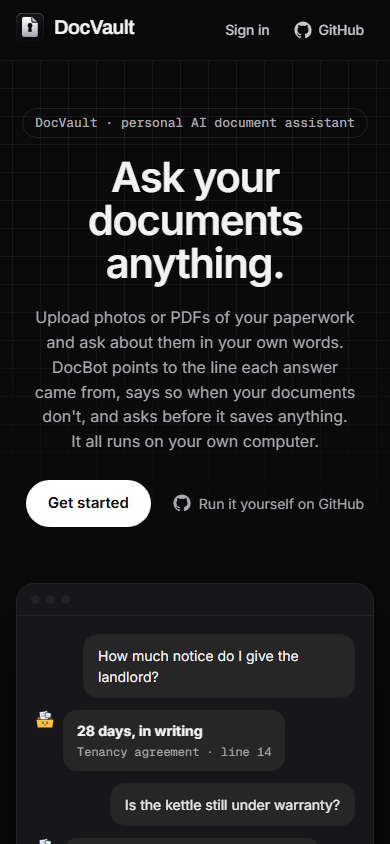
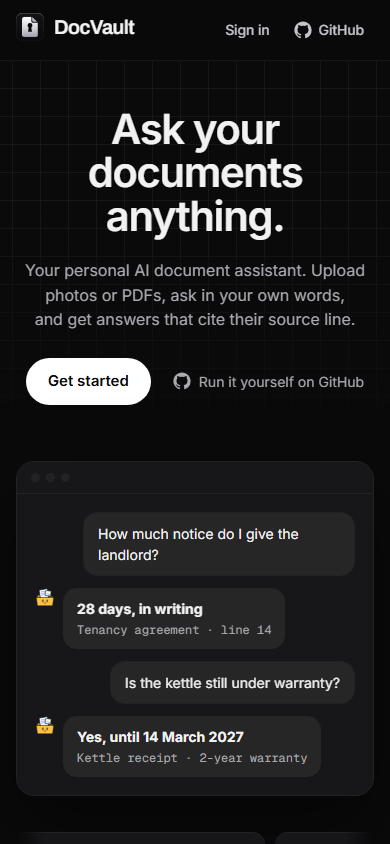
Drop the hero eyebrow and shorten the lead to two lines

diff --git a/frontend/src/components/landing/FloatingTiles.tsx b/frontend/src/components/landing/FloatingTiles.tsx
@@ -4,7 +4,8 @@ import { DocBotMark } from '@/components/DocBotMark'
 import { useReducedMotion } from '@/lib/useReducedMotion'
 
 /**
- * Three mirrored pairs, laid out as on t3.codes: x from the hero's centre, y from its top, s the tile size.
+ * Three mirrored pairs, laid out as on t3.codes: x from the hero's centre, y from its top, s the tile size. The lower
+ * pair sits at 350 px (t3: 440 px) so it stays beside the buttons of this shorter hero.
  * depth scales how far a tile follows the cursor; fx/fy is where it flies in from; d its entrance delay.
  */
 type Tile = { name: string; icon?: LucideIcon; color?: string; x: string; y: string; s: number; rot: number; depth: number; d: number; fx: number; fy: number }
@@ -13,8 +14,8 @@ const tiles: Tile[] = [
   { name: 'shopping', icon: ShoppingBag, color: '#F472B6', x: 'min(300px, 19vw)', y: '20px', s: 64, rot: -5, depth: 0.6, d: 0.58, fx: 40, fy: -80 },
   { name: 'receipt', icon: Receipt, color: '#8FD19B', x: 'max(-560px, -38vw)', y: '128px', s: 96, rot: -8, depth: 1.2, d: 0.38, fx: -160, fy: -40 },
   { name: 'manual', icon: BookOpen, color: '#F0A55B', x: 'min(560px, 38vw)', y: '128px', s: 96, rot: 7, depth: 1.2, d: 0.46, fx: 160, fy: -40 },
-  { name: 'file', icon: FileText, color: '#7AA7FF', x: 'max(-440px, -30vw)', y: '440px', s: 80, rot: 4, depth: 0.9, d: 0.54, fx: -120, fy: 80 },
-  { name: 'warranty', icon: ShieldCheck, color: '#5EEAD4', x: 'min(440px, 30vw)', y: '440px', s: 80, rot: -5, depth: 0.9, d: 0.7, fx: 120, fy: 80 },
+  { name: 'file', icon: FileText, color: '#7AA7FF', x: 'max(-440px, -30vw)', y: '350px', s: 80, rot: 4, depth: 0.9, d: 0.54, fx: -120, fy: 80 },
+  { name: 'warranty', icon: ShieldCheck, color: '#5EEAD4', x: 'min(440px, 30vw)', y: '350px', s: 80, rot: -5, depth: 0.9, d: 0.7, fx: 120, fy: 80 },
 ]
 
 /** Furthest the tiles shift, in pixels, when the cursor reaches an edge of the hero. */

diff --git a/frontend/src/pages/Landing.test.tsx b/frontend/src/pages/Landing.test.tsx
@@ -41,11 +41,9 @@ it('has one headline, the lead, and no form fields', () => {
   expect(screen.getAllByRole('heading', { level: 1 })).toHaveLength(1)
   const h1 = screen.getByRole('heading', { level: 1 })
   expect(h1).toHaveTextContent('Ask your documents anything.')
-  expect(screen.getByText("Upload photos or PDFs of your paperwork and ask about them in your own words. DocBot points to the line each answer came from, says so when your documents don't, and asks before it saves anything. It all runs on your own computer.")).toBeVisible()
-  const eyebrow = screen.getByText('DocVault · personal AI document assistant')
-  expect(eyebrow).toBeVisible()
-  expect(eyebrow.tagName).toBe('P')
-  expect(eyebrow.compareDocumentPosition(h1) & Node.DOCUMENT_POSITION_FOLLOWING).toBeTruthy()
+  expect(screen.getByText("Your personal AI document assistant. Upload photos or PDFs, ask in your own words, and get answers that cite their source line.")).toBeVisible()
+  expect(document.querySelector('.hero-eyebrow')).toBeNull()
+  expect(screen.queryByText('DocVault · personal AI document assistant')).toBeNull()
   expect(document.querySelector('input, textarea, select')).toBeNull()
 })
 
@@ -98,8 +96,8 @@ it('spreads the tiles in three mirrored pairs, as on t3.codes', () => {
     ['min(300px, 19vw)', '20px', '64px'],
     ['max(-560px, -38vw)', '128px', '96px'],
     ['min(560px, 38vw)', '128px', '96px'],
-    ['max(-440px, -30vw)', '440px', '80px'],
-    ['min(440px, 30vw)', '440px', '80px'],
+    ['max(-440px, -30vw)', '350px', '80px'],
+    ['min(440px, 30vw)', '350px', '80px'],
   ])
 })
 

diff --git a/frontend/e2e/landing.spec.ts b/frontend/e2e/landing.spec.ts
@@ -9,11 +9,14 @@ const bottom = async (locator: Locator) => {
 };
 
 test.describe('the landing page', () => {
-  test('at 1366 x 768 the eyebrow, the headline, the button and the top of the picture are on the first screen', async ({ page }) => {
+  test('at 1366 x 768 the headline, a two-line lead, the button and the top of the picture are on the first screen', async ({ page }) => {
     await page.setViewportSize({ width: 1366, height: 768 });
     await page.goto('/');
-    const eyebrow = page.getByText('DocVault · personal AI document assistant');
-    expect(await bottom(eyebrow)).toBeLessThanOrEqual(768);
+    // The lead fits on two lines at this width, as on t3.codes.
+    const lead = page.locator('.hero-lead');
+    const leadBox = (await lead.boundingBox())!;
+    const lineHeight = parseFloat(await lead.evaluate(el => getComputedStyle(el).lineHeight));
+    expect(Math.round(leadBox.height / lineHeight)).toBe(2);
     const headline = page.getByRole('heading', { level: 1, name: 'Ask your documents anything.' });
     expect(await bottom(headline)).toBeLessThanOrEqual(768);
     const button = page.getByRole('region', { name: 'Ask your documents anything.' }).getByRole('link', { name: 'Get started' });

diff --git a/frontend/src/pages/Landing.tsx b/frontend/src/pages/Landing.tsx
@@ -111,7 +111,6 @@ export default function Landing() {
       <main id="content" tabIndex={-1}>
         <section className="landing-hero" aria-labelledby="hero-title">
           <FloatingTiles />
-          <p className="hero-eyebrow">DocVault · personal AI document assistant</p>
           <h1 id="hero-title">
             <span className="h1-line">Ask your documents</span> <br />
             <span className="h1-line" style={{ '--d': '90ms' } as CSSProperties}>
@@ -119,9 +118,8 @@ export default function Landing() {
             </span>
           </h1>
           <p className="hero-lead">
-            Upload photos or PDFs of your paperwork and ask about them in your own words. {docbot} points to the line
-            each answer came from, says so when your documents don't, and asks before it saves anything. It all runs on
-            your own computer.
+            Your personal AI document assistant. Upload photos or PDFs, ask in your own words, and get answers that cite
+            their source line.
           </p>
           <div className="hero-links">
             <Link to="/register">Get started</Link>

diff --git a/frontend/src/pages/landing.css b/frontend/src/pages/landing.css
@@ -83,7 +83,7 @@
 .landing-hero {
   position: relative;
   text-align: center;
-  padding: clamp(28px, 4vw, 56px) 0 40px;
+  padding: clamp(40px, 5vw, 72px) 0 40px;
   isolation: isolate;
 }
 .landing-hero::before {
@@ -97,19 +97,6 @@
   mask-image: linear-gradient(to bottom, #000 40%, transparent);
   -webkit-mask-image: linear-gradient(to bottom, #000 40%, transparent);
   opacity: 0.55;
-}
-/* The category label above the headline. Muted text on the page is 8.5:1. */
-.hero-eyebrow {
-  display: inline-flex;
-  margin: 0 auto 18px;
-  padding: 4px 12px;
-  border: 1px solid var(--border);
-  border-radius: 999px;
-  color: var(--muted-foreground);
-  font:
-    500 13px/1.5 'Geist Mono',
-    ui-monospace,
-    monospace;
 }
 .meet-lead {
   color: var(--muted-foreground);
@@ -130,7 +117,7 @@
 }
 .hero-lead {
   color: var(--muted-foreground);
-  max-width: 60ch;
+  max-width: 680px;
   margin: 0 auto;
   text-wrap: balance;
   font-size: clamp(16px, 1.4vw, 19px);

diff --git a/specs/Repo_Current_State.md b/specs/Repo_Current_State.md
@@ -55,7 +55,7 @@ The assessed demo uses the existing hardware and local stack with **€0 planned
 | DocBot redesign PR 1 (issue #35), 21 November 2026, branch `feature/docbot-redesign`, frontend only | Codex's draft PR 37 (`210c7dd`) was merged on top of the plan commit with five conflicts resolved per the plan (`AppNav.test.tsx`, `AskAI.test.tsx`, `AskAI.tsx`, `Dashboard.tsx`, `lib/assistant.ts`), then: Pip renamed to DocBot, the folder mascot, the Vault-Page Monogram, public pages always dark, the t3-structure landing page. Run: type check, lint, 424 Vitest tests and the production build passed after a clean `npm ci`; `e2e/landing.spec.ts` (5 scenarios, including axe at 1366 and 390 px and the 1366 x 768 first-screen check) passed against the Vite dev server with `--retries=0`; screenshots of `/` and `/login` at 1366 x 768 and 390 x 844 are in `evaluation/docbot-redesign/`. Contrast on the dark palette (computed, not measured in a browser): text 17.7:1, muted text 8.5:1 on the page and 7.7:1 on cards, the orange status text 9.7:1, the white button 19.8:1. Not run: the signed-in Playwright suite and the `/app` screenshots (they need a disposable Compose stack, which the owner declined to start), the backend (untouched), the mobile checks. Not verified in a browser: the home assertions that moved to the `DocBot` h1, the light and dark `/app` screenshots. |
 | Landing polish and logo (issue #35), 21 November 2026, branch `feature/landing-polish`, frontend only | The landing header sticks to the top as on t3.codes: a constant 75% tint of the page colour, no blur, and a bottom border that fades in after 16 px of scrolling (opaque under reduced transparency, no fade under reduced motion). The header holds the wordmark, Sign in and GitHub; the hero's only primary button and the closing button read "Get started". The electricity-bill approval card appears once, in "One button to approve", above its highlighted source line (line 17); the hero shows lease and warranty cited answers and Meet DocBot shows the bill answer and a drafted reminder waiting for approval. "Read the setup" is underlined with an arrow. The logo is a vector mark (obsidian gradient tile with a metallic top rim, a white-to-silver folded page with a dark keyhole) in `favicon.svg`, a PNG-based `favicon.ico`, a 180 px `apple-touch-icon.png`, `VaultMonogram` and the README. Run: type check, lint, 432 Vitest tests and the production build passed; `e2e/landing.spec.ts` (6 scenarios, including axe at 1366 and 390 px and the sticky-header check) passed against the Vite dev server. Checked in a browser: the header at desktop, 390 px and 320 px, no sideways scroll, and the icon on white and dark tab colours from 16 to 128 px. Not run: the signed-in Playwright suite, the backend (untouched), the mobile checks. |
 | Landing header hover, tiles and font (issue #35), 21 November 2026, branch `feature/landing-hover-parallax`, frontend only | Matched to t3.codes at the owner's request: the header's Sign in and GitHub are text links in `#C4C4CA` (about 5.3:1 over a white button under the tinted bar) that brighten to `--foreground` on hover or focus, with no pill; GitHub links in the header, the hero and the footer open in a new tab and say so to screen readers. The six hero tiles are coloured and sit in t3's three mirrored pairs (64, 96 and 80 px), follow a fine pointer by up to 18 x 14 px times a per-tile depth with a 700 ms ease, and fly in on load with a 24° spin; the headline lines, lead, buttons and picture rise in turn (0 to 520 ms). Motion runs only under `html.motion-ok` without reduced motion; only a mouse moves the tiles (touch, pen and reduced motion keep them still). t3's exact spread needs a wide hero, so up to 1100 px only the large outer pair shows and below 900 px no tiles show (the review measured the small pair touching the headline and the lower pair falling behind the picture at 900–1100 px). The landing page uses the t3.codes font stack (SF Pro on Apple devices, Inter elsewhere) at weight 600 instead of Geist 800. The footer shows the logo and "© 2026 DocVault · by Hayden · final-year project". Run: type check, lint, 443 Vitest tests and the production build passed; `e2e/landing.spec.ts` (8 scenarios, including axe at 1366 and 390 px, a real-mouse parallax and hover check, the tile breakpoints at 1000 and 850 px and computed reduced-motion styles) passed against the Vite dev server. Checked in a browser at 1366 x 768 and 1280 x 800. Not run: the signed-in Playwright suite, the backend (untouched), the mobile checks. |
-| Landing positioning (issue #35), 21 November 2026, branch `feature/landing-positioning`, frontend only | Implements `specs/plans/2026-11-21-landing-positioning.md` with D1–D5 as recommended: the eyebrow "DocVault · personal AI document assistant", the `h1` "Ask your documents anything.", a lead covering upload, own words, line citations, saying when nothing is found, approval before saving and running locally; Meet DocBot shows a dishwasher-manual answer (line 22) and the honest miss "I couldn't find this in your documents."; the questions, the document cards and the stats no longer lead with bills (stat "Line 14"); the browser title and manifest name read "personal AI document assistant". Run: type check, lint, 442 Vitest tests and the production build passed; `e2e/landing.spec.ts` (7 scenarios, including axe at 1366 and 390 px and the 1366 x 768 first-screen check with the eyebrow) passed against the Vite dev server. Screenshots: `evaluation/docbot-redesign/landing-positioning-1366.png` and `-390.png`. Not run: the signed-in Playwright suite, the backend (untouched), the mobile checks. |
+| Landing positioning (issue #35), 21 November 2026, branch `feature/landing-positioning`, frontend only | Implements `specs/plans/2026-11-21-landing-positioning.md` with D1, D3, D4 and D5 as recommended and, at the owner's later request, no eyebrow (D2 withdrawn; the lower pair of hero tiles moves from y 440 to 350 px so it stays beside the buttons of the shorter hero): the `h1` "Ask your documents anything." and a two-line lead (at 1366 px, max width 680 px) "Your personal AI document assistant. Upload photos or PDFs, ask in your own words, and get answers that cite their source line."; Meet DocBot shows a dishwasher-manual answer (line 22) and the honest miss "I couldn't find this in your documents."; the questions, the document cards and the stats no longer lead with bills (stat "Line 14"); the browser title and manifest name read "personal AI document assistant". Run: type check, lint, 442 Vitest tests and the production build passed; `e2e/landing.spec.ts` (7 scenarios, including axe at 1366 and 390 px and the 1366 x 768 first-screen check, which now also asserts the two-line lead) passed against the Vite dev server. Screenshots: `evaluation/docbot-redesign/landing-positioning-1366.png` and `-390.png`. Not run: the signed-in Playwright suite, the backend (untouched), the mobile checks. |
 
 ## Remaining evidence and limits
 

diff --git a/specs/plans/2026-11-21-landing-positioning.md b/specs/plans/2026-11-21-landing-positioning.md
@@ -1,6 +1,6 @@
 # Landing Page Positioning: Introduce DocVault as a Personal AI Document Assistant
 
-**Status:** proposed by the Architect on 21 November 2026. Approved by the owner the same day with D1–D5 as recommended. Implemented on `feature/landing-positioning`, which is stacked on `feature/landing-hover-parallax` (t3 header hover, tile layout and load-in, Inter at 600).
+**Status:** proposed by the Architect on 21 November 2026. Approved by the owner the same day with D1–D5 as recommended. Implemented on `feature/landing-positioning`, which is stacked on `feature/landing-hover-parallax` (t3 header hover, tile layout and load-in, Inter at 600). **Owner change after review (21 Nov):** the eyebrow is removed (D2 withdrawn) and the lead is shortened to two lines at 1366 px, as on t3.codes: "Your personal AI document assistant. Upload photos or PDFs, ask in your own words, and get answers that cite their source line." The category now lives in the lead; approval, the honest miss and running locally are shown further down the page. The hero's top padding returns to `clamp(40px, 5vw, 72px)`.
 
 **Issue:** #35. The PR says `Part of #35`.
 
